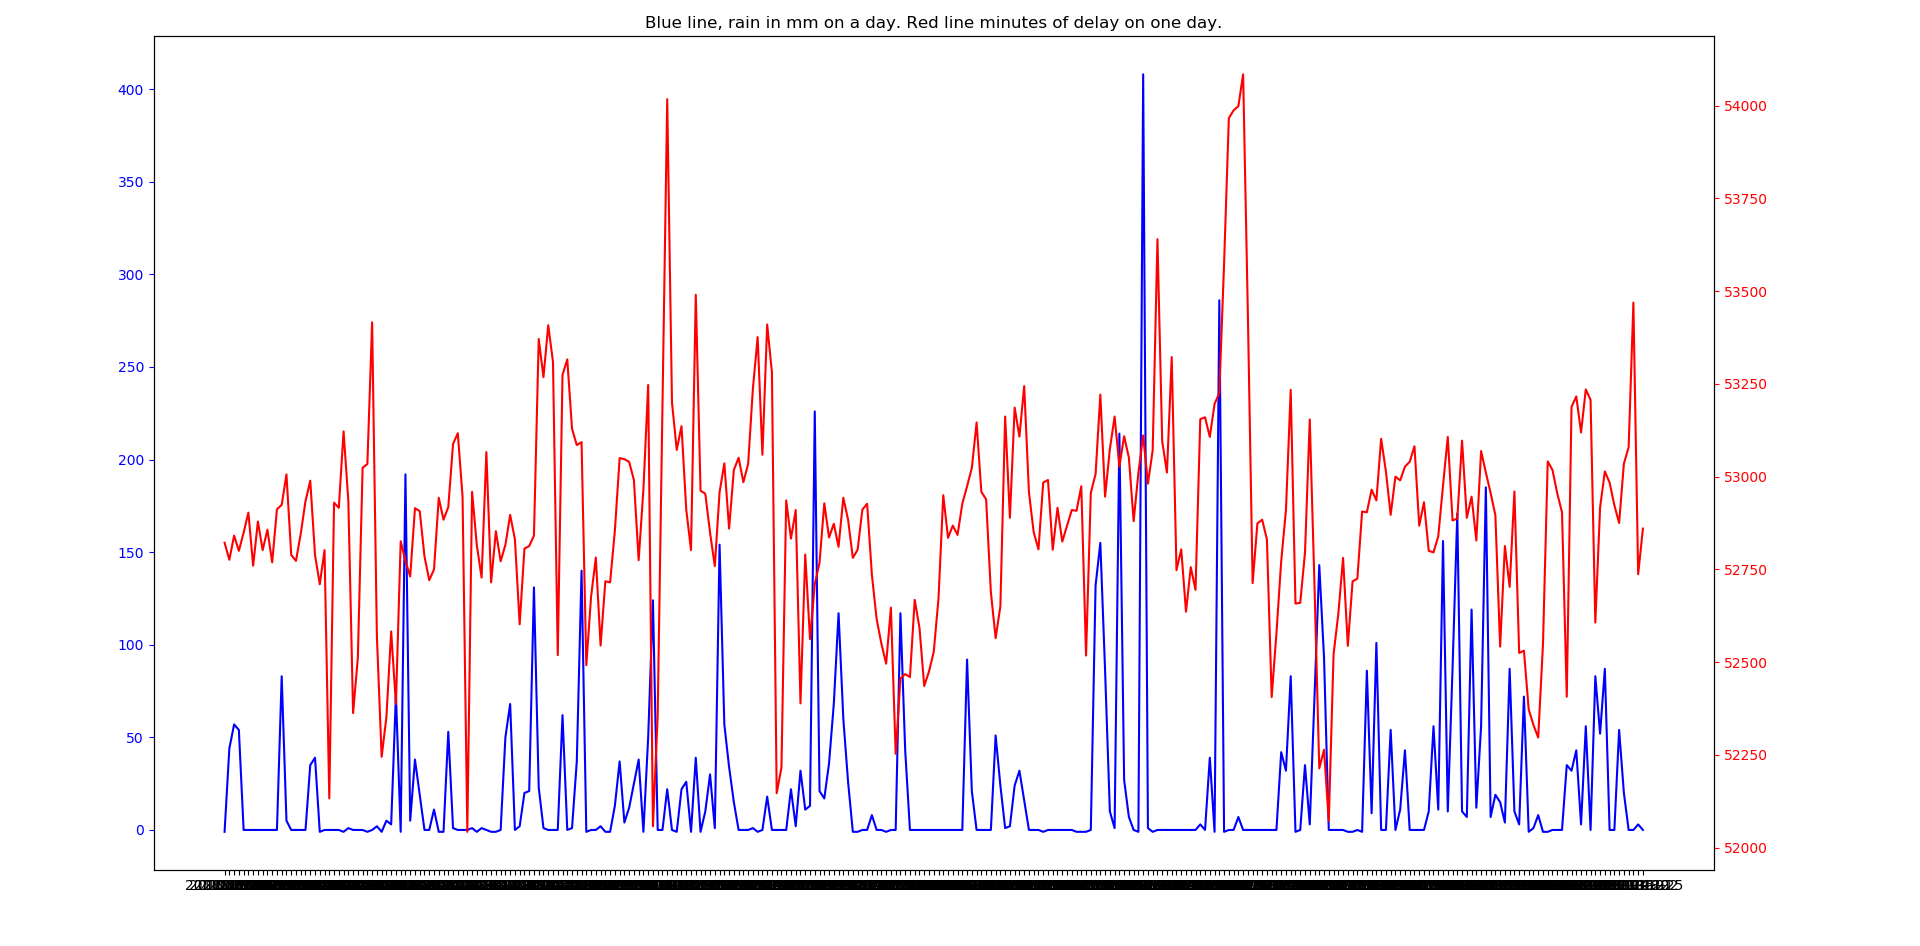
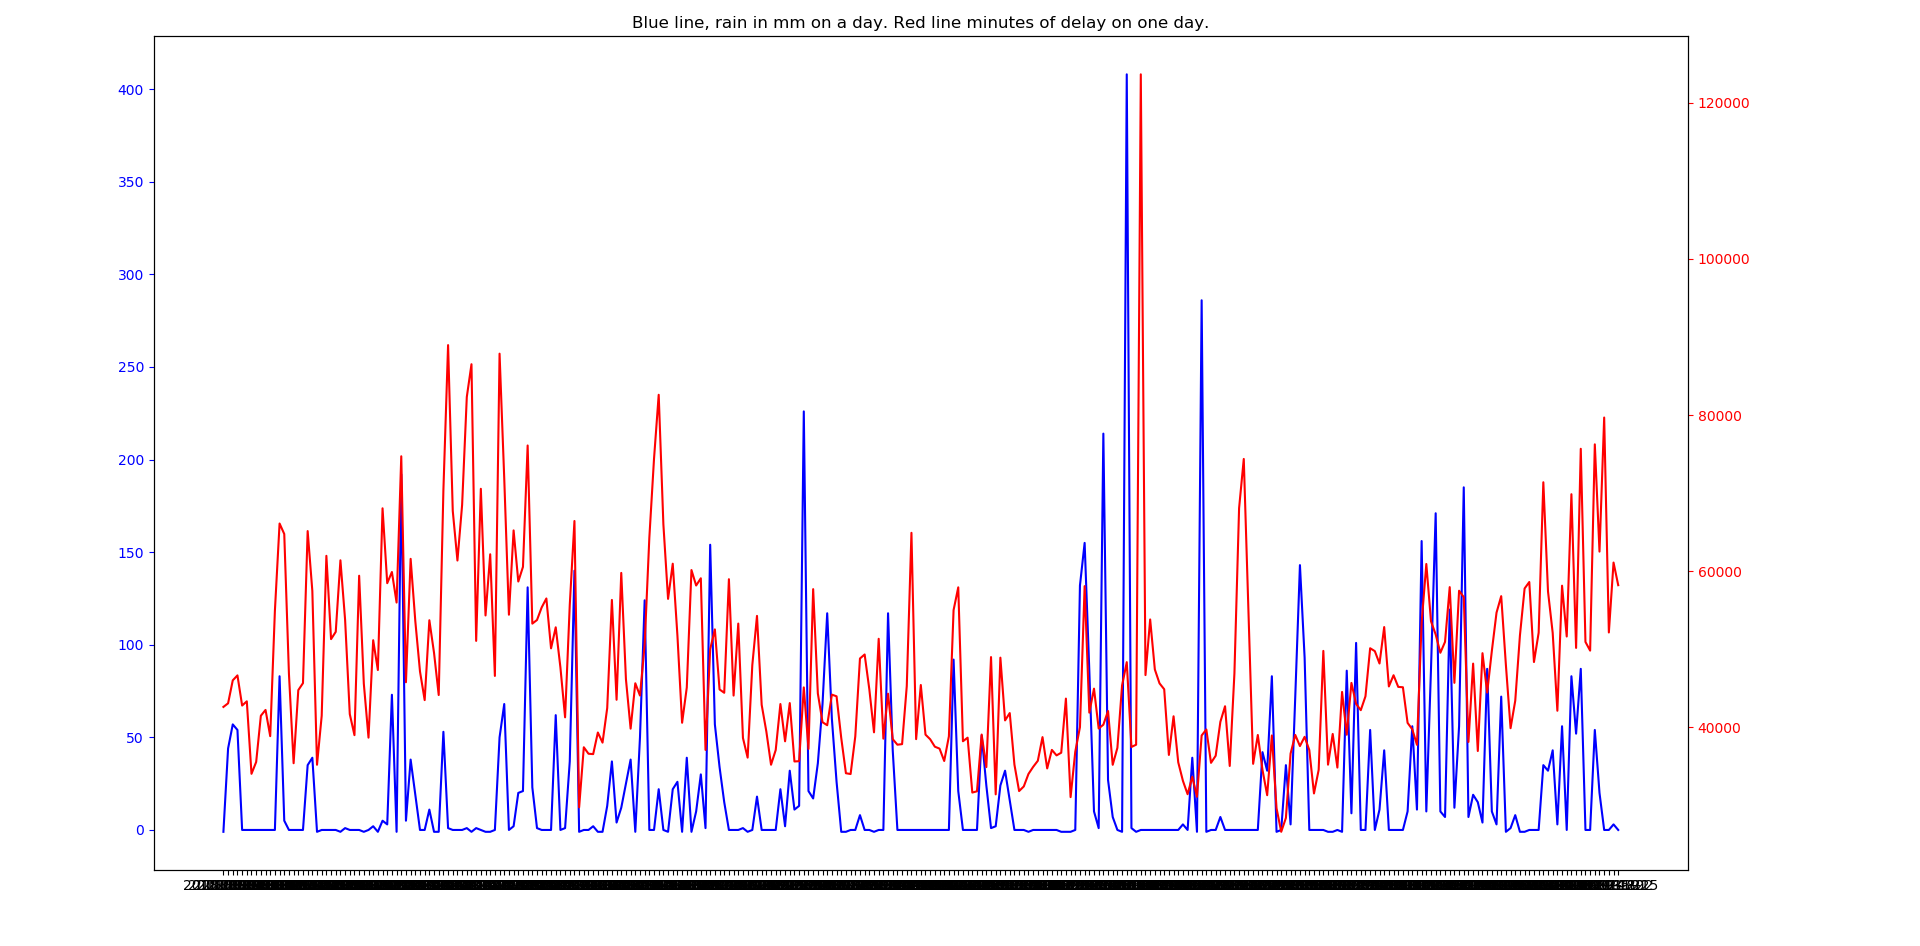
Corrected wind/rain experiments, slightly better results now

diff --git a/experiments/weather_cancelled_wind.py b/experiments/weather_cancelled_wind.py
@@ -8,7 +8,6 @@ columns = [
     "traintype", "destination", "time", "delay", "cancelled"
 ]
 
-
 #ive added some extra outliers, but i don't know why they exist yet.
 # So maybe they should be included.
 obsolete_dates = ['2018-09-03', '2018-12-25', '2018-12-26','2018-12-31', '2019-01-01',
@@ -41,12 +40,12 @@ with open("../data/vertrektijden.csv") as vertrektijden:
         # filtering out weekends
         if (weekday >= 5): continue
         if date not in total_trains:
-            total_trains[date] = int(delay)
+            total_trains[date] = 1
         else:
-            total_trains[date] = total_trains[date] + int(delay)
+            total_trains[date] = total_trains[date] + 1
 
 rainlist = []
-with open("../data/neerslag.txt") as neerslag:
+with open("../data/wind_per_uur.txt") as neerslag:
     reader = csv.reader(neerslag, delimiter=",")
     for line in reader:
         date = str(line[1])
@@ -69,5 +68,5 @@ ax2.plot(*zip(*sorted(total_trains.items())), label="total trains", color='r')
 ax2.tick_params('y', colors='r')
 
 fig.tight_layout()
-plt.title("Blue line, rain in mm on a day. Red line minutes of delay on one day.")
+plt.title("Blue line, Highest average (per hour) wind speed. Red line minutes of delay on one day.")
 plt.show()

diff --git a/experiments/weather_delay_wind.py b/experiments/weather_delay_wind.py
@@ -43,12 +43,9 @@ with open("../data/vertrektijden.csv") as vertrektijden:
         # filtering out weekends
         if (weekday >= 5): continue
         if date not in total_trains:
-            total_trains[date] = 1
+            total_trains[date] = int(delay)
         else:
-            total_trains[date] = total_trains[date] + 1
-    for delay in total_trains.keys():
-        if total_trains[str(delay)] < 52000:
-            print(str(delay) + " --> " + str(total_trains[str(delay)]))
+            total_trains[date] = total_trains[date] + int(delay)
 
 rainlist = []
 with open("../data/wind_per_uur.txt") as neerslag:
